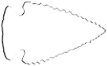
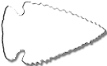
updated the nav menu

diff --git a/styles.css b/styles.css
@@ -38,7 +38,7 @@ a {
 .previous {
     background-color: transparent;
     border: none;
-    transform: rotate(180deg);
+    transform: scaleX(-1);
 }
 
 .next {
@@ -61,9 +61,10 @@ a {
     margin-bottom: 5pt;
 }
 
-.home, .end {
+.home {
     background-color: transparent;
     border: none;
     color: white;
+    text-shadow: 4px 4px 4px black;
     font-size: 64pt;
 }
